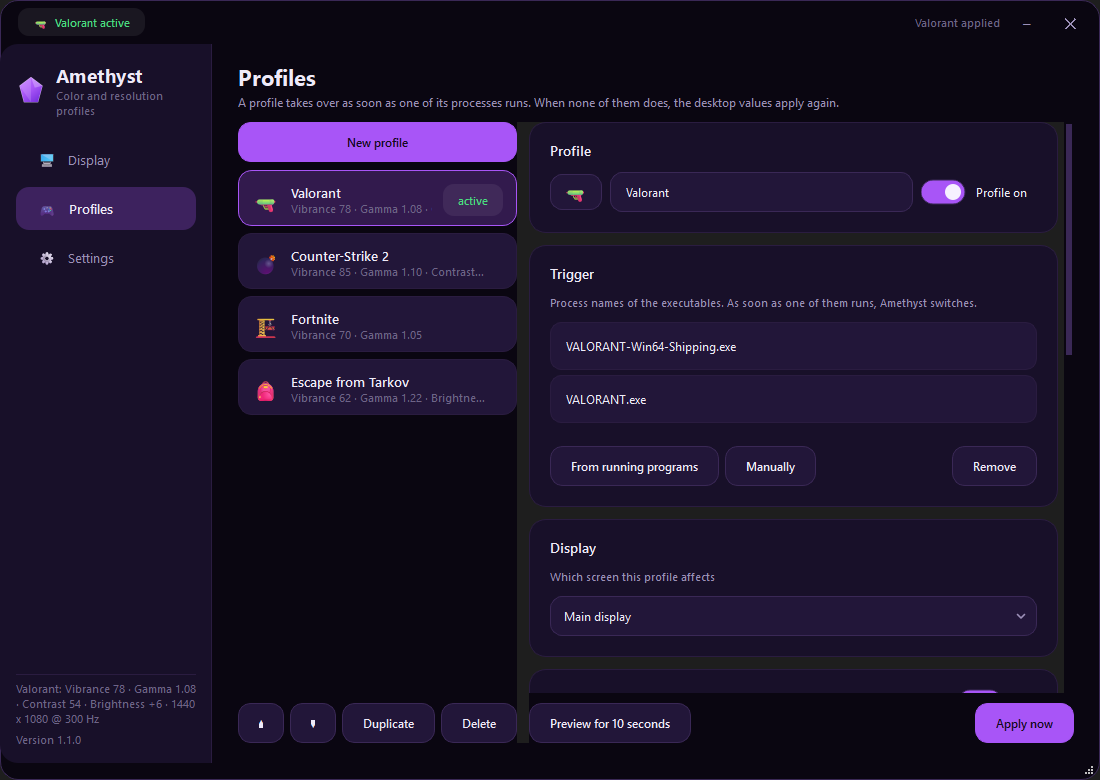
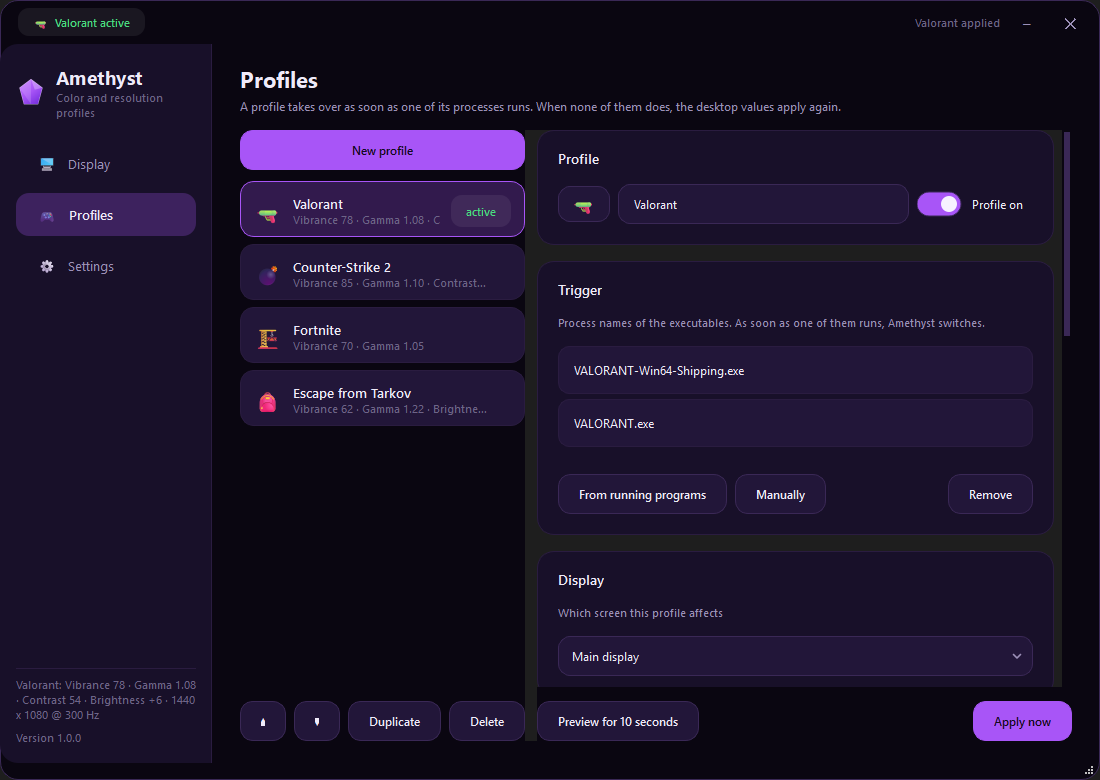
More air between elements, version back to 1.0.0
The filled look had pulled everything together. Cards, rows and pages have
their spacing back, so the surfaces read as separate blocks instead of one
mass.

The version only moves when a release is published, so this is 1.0.0 again
until the first one goes out.

README: the header carries a download button that always points at the
latest release, and installing is now two paths, the release and the build.

diff --git a/amethyst/ui/page_profiles.py b/amethyst/ui/page_profiles.py
@@ -138,10 +138,10 @@ class ProfilesPage(QWidget):
 
         outer = QVBoxLayout(self)
         outer.setContentsMargins(0, 0, 0, 0)
-        outer.setSpacing(12)
+        outer.setSpacing(16)
 
         head = QVBoxLayout()
-        head.setSpacing(2)
+        head.setSpacing(4)
         head.addWidget(label("Profiles", "pageTitle"))
         head.addWidget(label("A profile takes over as soon as one of its processes runs. "
                              "When none of them does, the desktop values apply again.", "pageHint"))
@@ -155,7 +155,7 @@ class ProfilesPage(QWidget):
         left = QWidget()
         left_layout = QVBoxLayout(left)
         left_layout.setContentsMargins(0, 0, 0, 0)
-        left_layout.setSpacing(8)
+        left_layout.setSpacing(11)
 
         buttons = QHBoxLayout()
         buttons.setSpacing(6)
@@ -172,7 +172,7 @@ class ProfilesPage(QWidget):
         left_layout.addWidget(self.list, 1)
 
         tools = QHBoxLayout()
-        tools.setSpacing(6)
+        tools.setSpacing(8)
         for text, tip, slot in (
             ("▲", "Move up (upper profiles win when several match)", lambda: self._move(-1)),
             ("▼", "Move down", lambda: self._move(1)),
@@ -194,15 +194,15 @@ class ProfilesPage(QWidget):
         right = QWidget()
         right_layout = QVBoxLayout(right)
         right_layout.setContentsMargins(0, 0, 0, 0)
-        right_layout.setSpacing(10)
+        right_layout.setSpacing(14)
 
         self.editor_scroll = QScrollArea()
         self.editor_scroll.setWidgetResizable(True)
         self.editor_scroll.setHorizontalScrollBarPolicy(Qt.ScrollBarAlwaysOff)
         editor = QWidget()
         editor_layout = QVBoxLayout(editor)
-        editor_layout.setContentsMargins(0, 0, 6, 0)
-        editor_layout.setSpacing(12)
+        editor_layout.setContentsMargins(0, 0, 8, 0)
+        editor_layout.setSpacing(16)
 
         self.header_card = Card("Profile")
         name_row = QWidget()
@@ -232,7 +232,7 @@ class ProfilesPage(QWidget):
         self.process_list.setMaximumHeight(112)
         self.process_card.add(self.process_list)
         process_buttons = QHBoxLayout()
-        process_buttons.setSpacing(6)
+        process_buttons.setSpacing(8)
         pick = QPushButton("From running programs")
         pick.setObjectName("ghost")
         pick.setCursor(Qt.PointingHandCursor)
@@ -271,7 +271,7 @@ class ProfilesPage(QWidget):
         right_layout.addWidget(self.editor_scroll, 1)
 
         actions = QHBoxLayout()
-        actions.setSpacing(8)
+        actions.setSpacing(10)
         self.test_button = QPushButton("Preview for 10 seconds")
         self.test_button.setObjectName("ghost")
         self.test_button.setCursor(Qt.PointingHandCursor)

diff --git a/amethyst/ui/page_display.py b/amethyst/ui/page_display.py
@@ -32,10 +32,10 @@ class DisplayPage(QWidget):
 
         outer = QVBoxLayout(self)
         outer.setContentsMargins(0, 0, 0, 0)
-        outer.setSpacing(12)
+        outer.setSpacing(16)
 
         head = QVBoxLayout()
-        head.setSpacing(2)
+        head.setSpacing(4)
         title = label("Display", "pageTitle")
         hint = label("Color and resolution for the desktop. These values apply whenever "
                      "no game profile is active.", "pageHint")
@@ -80,8 +80,8 @@ class DisplayPage(QWidget):
         scroll.setHorizontalScrollBarPolicy(Qt.ScrollBarAlwaysOff)
         content = QWidget()
         content_layout = QVBoxLayout(content)
-        content_layout.setContentsMargins(0, 0, 6, 0)
-        content_layout.setSpacing(12)
+        content_layout.setContentsMargins(0, 0, 8, 0)
+        content_layout.setSpacing(16)
 
         self.color_panel = ColorPanel("Color", "")
         self.resolution_panel = ResolutionPanel("Resolution", "")

diff --git a/amethyst/ui/page_settings.py b/amethyst/ui/page_settings.py
@@ -33,10 +33,10 @@ class SettingsPage(QWidget):
 
         outer = QVBoxLayout(self)
         outer.setContentsMargins(0, 0, 0, 0)
-        outer.setSpacing(12)
+        outer.setSpacing(16)
 
         head = QVBoxLayout()
-        head.setSpacing(2)
+        head.setSpacing(4)
         head.addWidget(label("Settings", "pageTitle"))
         head.addWidget(label("How Amethyst behaves, plus a diagnosis of the interfaces.",
                              "pageHint"))
@@ -47,8 +47,8 @@ class SettingsPage(QWidget):
         scroll.setHorizontalScrollBarPolicy(Qt.ScrollBarAlwaysOff)
         content = QWidget()
         layout = QVBoxLayout(content)
-        layout.setContentsMargins(0, 0, 6, 0)
-        layout.setSpacing(12)
+        layout.setContentsMargins(0, 0, 8, 0)
+        layout.setSpacing(16)
 
         # -- behaviour
         behaviour = Card("Behaviour")

diff --git a/amethyst/ui/window.py b/amethyst/ui/window.py
@@ -99,7 +99,7 @@ class MainWindow(QWidget):
         for page in (self.display_page, self.profiles_page, self.settings_page):
             holder = QWidget()
             holder_layout = QVBoxLayout(holder)
-            holder_layout.setContentsMargins(26, 18, 26, 20)
+            holder_layout.setContentsMargins(28, 20, 28, 22)
             holder_layout.addWidget(page)
             self.stack.addWidget(holder)
         body.addWidget(self.stack, 1)
@@ -147,8 +147,8 @@ class MainWindow(QWidget):
         sidebar.setObjectName("sidebar")
         sidebar.setFixedWidth(212)
         layout = QVBoxLayout(sidebar)
-        layout.setContentsMargins(16, 18, 16, 16)
-        layout.setSpacing(6)
+        layout.setContentsMargins(16, 20, 16, 18)
+        layout.setSpacing(8)
 
         brand = QHBoxLayout()
         brand.setSpacing(10)

diff --git a/amethyst/ui/widgets.py b/amethyst/ui/widgets.py
@@ -22,7 +22,7 @@ class Card(QFrame):
         self.setObjectName("cardFlat" if flat else "card")
         self._layout = QVBoxLayout(self)
         self._layout.setContentsMargins(20, 18, 20, 20)
-        self._layout.setSpacing(12)
+        self._layout.setSpacing(16)
         self.header = QHBoxLayout()
         self.header.setSpacing(8)
         if title:

diff --git a/amethyst/ui/panels.py b/amethyst/ui/panels.py
@@ -150,7 +150,7 @@ class ResolutionPanel(Card):
         line = QWidget()
         layout = QHBoxLayout(line)
         layout.setContentsMargins(0, 0, 0, 0)
-        layout.setSpacing(8)
+        layout.setSpacing(10)
         self.resolution_box = QComboBox()
         self.resolution_box.setMinimumWidth(180)
         self.refresh_box = QComboBox()

diff --git a/amethyst/__init__.py b/amethyst/__init__.py
@@ -2,7 +2,7 @@
 
 APP_NAME = "Amethyst"
 APP_ID = "amethyst"
-VERSION = "1.1.0"
+VERSION = "1.0.0"
 AUTHOR = "ImKirit"
 REPO = "ImKirit/Amethyst"          # owner/name, used for update checks
 REPO_URL = f"https://github.com/{REPO}"

diff --git a/README.md b/README.md
@@ -11,9 +11,9 @@ resolution the way the NVIDIA control panel does, but per game. Build a profile 
 Valorant, another one for CS2, and the moment the game starts your screen switches over.
 When you close it, everything goes back.
 
-[![License](https://img.shields.io/badge/license-MIT-140D22)](LICENSE)
-[![Platform](https://img.shields.io/badge/platform-Windows%2010%20%7C%2011-140D22)](#install)
-[![Python](https://img.shields.io/badge/python-3.10%2B-A855F7)](#development)
+[![Download](https://img.shields.io/github/v/release/ImKirit/Amethyst?color=A855F7&label=download&sort=semver)](https://github.com/ImKirit/Amethyst/releases/latest)
+[![License](https://img.shields.io/badge/license-MIT-181029)](LICENSE)
+[![Platform](https://img.shields.io/badge/platform-Windows%2010%20%7C%2011-181029)](#install)
 
 <img src="docs/img/main-display.png" width="820" alt="Amethyst, display page with color sliders">
 
@@ -183,7 +183,19 @@ folder and Amethyst starts fresh.
 **Windows 10 or 11.** An NVIDIA card is needed for digital vibrance; everything else works on
 any GPU.
 
-Build the executable yourself:
+### 1. Download the release
+
+Grab `Amethyst.exe` from the [latest release](https://github.com/ImKirit/Amethyst/releases/latest)
+and run it. One file, no installer, nothing to set up. It updates itself from then on.
+
+Windows SmartScreen warns about it because the file is not code signed. Choose "More info",
+then "Run anyway". Every release lists the SHA256 of the exe if you want to check it first:
+
+```bash
+certutil -hashfile Amethyst.exe SHA256
+```
+
+### 2. Build it yourself
 
 ```bash
 git clone https://github.com/ImKirit/Amethyst.git
@@ -192,9 +204,9 @@ pip install -r requirements.txt
 python tools/build.py
 ```
 
-The result is `dist/Amethyst.exe`, a single file with no installer and no dependencies on the
-target machine. `python tools/build.py --folder` builds an unpacked folder instead, which
-starts noticeably faster.
+The result is `dist/Amethyst.exe`, the same single file, with no dependencies on the target
+machine. `python tools/build.py --folder` builds an unpacked folder instead, which starts
+noticeably faster.
 
 ### Updates
 
